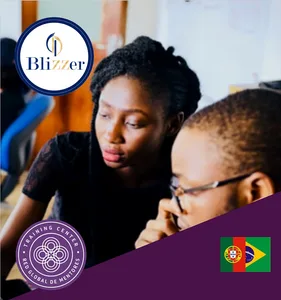
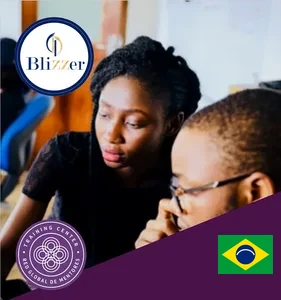
Centros: banderas únicas (Blizzer, Mentoring Academy) y orden por región
Claude-Session: https://claude.ai/code/session_0186Y1JEVinRSaoQptzzRaFy

Changed region(s): [[0.7687, 0.78, 0.9964, 0.93]]

diff --git a/es/academia/centros/index.html b/es/academia/centros/index.html
@@ -40,7 +40,7 @@
       <p>Es la entidad responsable de la construcción doctrinal, académica y estratégica de la disciplina. Hoy hay más de 15 Centros de Formación certificados en 13 países, en tres lenguas (español, portugués e inglés).</p></div></div></div></section>
 <section class="sec oscuro"><div class="cont"><span class="sobre">Academias lingüísticas de mentoría</span><h2>Una academia por cada lengua</h2><p class="lead">Entidades autorizadas por la Academia Global RGM para desarrollar, representar y expandir la mentoría en un idioma determinado. Su misión es impulsar la formación, certificación, investigación y profesionalización de la mentoría, adaptando los estándares internacionales a la realidad cultural y educativa de cada territorio. Actúan como nexo entre la Academia Global RGM, las universidades, los centros de formación y los mentores de su región.</p><div class="centros centros--3"><article class="centro"><img src="../img/centros/lin-ingles.webp" width="500" height="300" loading="lazy" alt="English Mentoring Academy"><div><h4>English Mentoring Academy</h4><p>Londres, Reino Unido · lengua inglesa</p></div></article><article class="centro"><img src="../img/centros/lin-hispana.webp" width="500" height="300" loading="lazy" alt="Academia Hispana de Mentoría"><div><h4>Academia Hispana de Mentoría</h4><p>Madrid, España · lengua española</p></div></article><article class="centro"><img src="../img/centros/lin-lusofona.webp" width="500" height="300" loading="lazy" alt="Academia Lusófona de Mentoria"><div><h4>Academia Lusófona de Mentoria</h4><p>Lisboa, Portugal · lengua portuguesa</p></div></article></div></div></section>
 <section class="sec claro"><div class="cont"><span class="sobre">Universidades aliadas</span><h2>Mentoría dentro de la oferta académica</h2><p class="lead">Instituciones de educación superior que incorporan la mentoría en su oferta, impartiendo programas oficiales desarrollados o avalados por la Academia Global RGM, mediante asignaturas, especializaciones, diplomaturas, maestrías y programas de formación académica, con rigor científico, calidad educativa y reconocimiento institucional.</p><div class="centros"><article class="centro"><img src="../img/centros/uni-1.webp" width="500" height="300" loading="lazy" alt="NUC University · Northbridge University"><div><h4>NUC University · Northbridge University</h4><p>San Juan, Puerto Rico</p><a class="mas" href="https://northbridge.edu/en/" target="_blank" rel="noopener">Sitio web →</a></div></article><article class="centro"><img src="../img/centros/uni-2.webp" width="500" height="300" loading="lazy" alt="NUC University · Northbridge University"><div><h4>NUC University · Northbridge University</h4><p>Estado de Florida, USA</p><a class="mas" href="https://northbridge.edu/" target="_blank" rel="noopener">Sitio web →</a></div></article><article class="centro"><img src="../img/centros/uni-3.webp" width="500" height="300" loading="lazy" alt="INCADE"><div><h4>INCADE</h4><p>Posadas, Argentina</p><a class="mas" href="https://incade.edu.ar/" target="_blank" rel="noopener">Sitio web →</a></div></article></div></div></section>
-<section class="sec oscuro"><div class="cont"><span class="sobre">Centros de formación avalados</span><h2>Mentoría combinada con otras disciplinas</h2><p class="lead">Instituciones educativas que integran la mentoría dentro de sus propios programas formativos, combinándola con otras disciplinas, metodologías o áreas de especialización. Su función es difundir, enseñar y aplicar la mentoría en distintos contextos, mediante programas mixtos avalados por la Academia Global RGM.</p><div class="centros"><article class="centro"><img src="../img/centros/c-saxa.webp" width="500" height="300" loading="lazy" alt="Mentoring Academy"><div><h4>Mentoring Academy</h4><p>Londres, Inglaterra</p><a class="mas" href="https://mentoring.academy/" target="_blank" rel="noopener">Sitio web →</a></div></article><article class="centro"><img src="../img/centros/c-grit.webp" width="500" height="300" loading="lazy" alt="GRIT Academy"><div><h4>GRIT Academy</h4><p>Chipre</p><a class="mas" href="https://gritacademy.co/red-global-de-mentores/" target="_blank" rel="noopener">Sitio web →</a></div></article><article class="centro"><img src="../img/centros/c-jaime.webp" width="500" height="300" loading="lazy" alt="Jaime España"><div><h4>Jaime España</h4><p>Bogotá, Colombia</p><a class="mas" href="https://www.jaimeespana.com/" target="_blank" rel="noopener">Sitio web →</a></div></article><article class="centro"><img src="../img/centros/c-bolivia.webp" width="500" height="300" loading="lazy" alt="Coaching Consulting Group"><div><h4>Coaching Consulting Group</h4><p>La Paz, Bolivia</p><a class="mas" href="https://coaching.bo/" target="_blank" rel="noopener">Sitio web →</a></div></article><article class="centro"><img src="../img/centros/c-peru.webp" width="500" height="300" loading="lazy" alt="Escuela de Coaching Integral Perú"><div><h4>Escuela de Coaching Integral Perú</h4><p>Lima, Perú</p><a class="mas" href="https://eciplatam.com/index.php" target="_blank" rel="noopener">Sitio web →</a></div></article><article class="centro"><img src="../img/centros/c-rosalinda.webp" width="500" height="300" loading="lazy" alt="Espacio Empresarial"><div><h4>Espacio Empresarial</h4><p>Ciudad de México, México</p><a class="mas" href="https://espacioempresarial.com.mx/red-global-de-mentores" target="_blank" rel="noopener">Sitio web →</a></div></article><article class="centro"><img src="../img/centros/c-rafa.webp" width="500" height="300" loading="lazy" alt="Escuela de Mentores"><div><h4>Escuela de Mentores</h4><p>Medellín, Colombia</p><a class="mas" href="https://escueladementores.org/" target="_blank" rel="noopener">Sitio web →</a></div></article><article class="centro"><img src="../img/centros/c-miami.webp" width="500" height="300" loading="lazy" alt="Crecimiento &amp; Liderazgo"><div><h4>Crecimiento &amp; Liderazgo</h4><p>Miami, EEUU</p><a class="mas" href="https://crecimientoyliderazgo.com/red-global-de-mentores/" target="_blank" rel="noopener">Sitio web →</a></div></article><article class="centro"><img src="../img/centros/c-kleber.webp" width="500" height="300" loading="lazy" alt="Blizzer"><div><h4>Blizzer</h4><p>Río de Janeiro, Brasil</p><a class="mas" href="https://www.blizzer.com.br/kleber-rodrigues" target="_blank" rel="noopener">Sitio web →</a></div></article><article class="centro"><img src="../img/centros/c-ilpnl.webp" width="500" height="300" loading="lazy" alt="ILPNL"><div><h4>ILPNL</h4><p>Lima, Perú</p><a class="mas" href="https://ilpnl.org/" target="_blank" rel="noopener">Sitio web →</a></div></article><article class="centro"><img src="../img/centros/c-itaca.webp" width="500" height="300" loading="lazy" alt="Academia Ítaca"><div><h4>Academia Ítaca</h4><p>Posadas, Argentina</p><a class="mas" href="https://www.beatrizmartinez.com.ar/" target="_blank" rel="noopener">Sitio web →</a></div></article><article class="centro"><img src="../img/centros/c-amareva.webp" width="500" height="300" loading="lazy" alt="Amar Eva"><div><h4>Amar Eva</h4><p>Mirandela, Portugal</p><a class="mas" href="https://www.linkedin.com/company/associa%C3%A7%C3%A3o-amar-eva/" target="_blank" rel="noopener">Sitio web →</a></div></article></div></div></section>
+<section class="sec oscuro"><div class="cont"><span class="sobre">Centros de formación avalados</span><h2>Mentoría combinada con otras disciplinas</h2><p class="lead">Instituciones educativas que integran la mentoría dentro de sus propios programas formativos, combinándola con otras disciplinas, metodologías o áreas de especialización. Su función es difundir, enseñar y aplicar la mentoría en distintos contextos, mediante programas mixtos avalados por la Academia Global RGM.</p><div class="centros"><article class="centro"><img src="../img/centros/c-saxa.webp" width="500" height="300" loading="lazy" alt="Mentoring Academy"><div><h4>Mentoring Academy</h4><p>Londres, Inglaterra</p><a class="mas" href="https://mentoring.academy/" target="_blank" rel="noopener">Sitio web →</a></div></article><article class="centro"><img src="../img/centros/c-grit.webp" width="500" height="300" loading="lazy" alt="GRIT Academy"><div><h4>GRIT Academy</h4><p>Chipre</p><a class="mas" href="https://gritacademy.co/red-global-de-mentores/" target="_blank" rel="noopener">Sitio web →</a></div></article><article class="centro"><img src="../img/centros/c-amareva.webp" width="500" height="300" loading="lazy" alt="Amar Eva"><div><h4>Amar Eva</h4><p>Mirandela, Portugal</p><a class="mas" href="https://www.linkedin.com/company/associa%C3%A7%C3%A3o-amar-eva/" target="_blank" rel="noopener">Sitio web →</a></div></article><article class="centro"><img src="../img/centros/c-miami.webp" width="500" height="300" loading="lazy" alt="Crecimiento &amp; Liderazgo"><div><h4>Crecimiento &amp; Liderazgo</h4><p>Miami, EEUU</p><a class="mas" href="https://crecimientoyliderazgo.com/red-global-de-mentores/" target="_blank" rel="noopener">Sitio web →</a></div></article><article class="centro"><img src="../img/centros/c-rosalinda.webp" width="500" height="300" loading="lazy" alt="Espacio Empresarial"><div><h4>Espacio Empresarial</h4><p>Ciudad de México, México</p><a class="mas" href="https://espacioempresarial.com.mx/red-global-de-mentores" target="_blank" rel="noopener">Sitio web →</a></div></article><article class="centro"><img src="../img/centros/c-jaime.webp" width="500" height="300" loading="lazy" alt="Jaime España"><div><h4>Jaime España</h4><p>Bogotá, Colombia</p><a class="mas" href="https://www.jaimeespana.com/" target="_blank" rel="noopener">Sitio web →</a></div></article><article class="centro"><img src="../img/centros/c-rafa.webp" width="500" height="300" loading="lazy" alt="Escuela de Mentores"><div><h4>Escuela de Mentores</h4><p>Medellín, Colombia</p><a class="mas" href="https://escueladementores.org/" target="_blank" rel="noopener">Sitio web →</a></div></article><article class="centro"><img src="../img/centros/c-bolivia.webp" width="500" height="300" loading="lazy" alt="Coaching Consulting Group"><div><h4>Coaching Consulting Group</h4><p>La Paz, Bolivia</p><a class="mas" href="https://coaching.bo/" target="_blank" rel="noopener">Sitio web →</a></div></article><article class="centro"><img src="../img/centros/c-peru.webp" width="500" height="300" loading="lazy" alt="Escuela de Coaching Integral Perú"><div><h4>Escuela de Coaching Integral Perú</h4><p>Lima, Perú</p><a class="mas" href="https://eciplatam.com/index.php" target="_blank" rel="noopener">Sitio web →</a></div></article><article class="centro"><img src="../img/centros/c-ilpnl.webp" width="500" height="300" loading="lazy" alt="ILPNL"><div><h4>ILPNL</h4><p>Lima, Perú</p><a class="mas" href="https://ilpnl.org/" target="_blank" rel="noopener">Sitio web →</a></div></article><article class="centro"><img src="../img/centros/c-kleber.webp" width="500" height="300" loading="lazy" alt="Blizzer"><div><h4>Blizzer</h4><p>Río de Janeiro, Brasil</p><a class="mas" href="https://www.blizzer.com.br/kleber-rodrigues" target="_blank" rel="noopener">Sitio web →</a></div></article><article class="centro"><img src="../img/centros/c-itaca.webp" width="500" height="300" loading="lazy" alt="Academia Ítaca"><div><h4>Academia Ítaca</h4><p>Posadas, Argentina</p><a class="mas" href="https://www.beatrizmartinez.com.ar/" target="_blank" rel="noopener">Sitio web →</a></div></article></div></div></section>
 <section class="sec claro"><div class="cont"><div class="dos"><div><span class="sobre">Mentores docentes certificados</span><h2>Agentes de transformación humana y organizacional</h2></div><div>
       <p>Los Mentores Docentes Certificados son los profesionales habilitados para ejercer la mentoría conforme a los estándares académicos, éticos y metodológicos de la Academia Global RGM. Constituyen la expresión práctica de todo el ecosistema, ya que son quienes transfieren experiencia, criterio y sabiduría aplicada a personas, equipos, organizaciones y comunidades.</p>
       <p><a class="btn btn--oro" href="../../directorio/" target="_blank" rel="noopener">Ver los Mentores Docentes Certificados</a></p></div></div></div></section>

diff --git a/pt/academia/centros/index.html b/pt/academia/centros/index.html
@@ -38,7 +38,7 @@
 <p>É a entidade responsável pela construção doutrinal, académica e estratégica da disciplina. Hoje existem mais de 15 Centros de Formação certificados em 13 países, em três línguas (espanhol, português e inglês).</p></div></div></div></section>
 <section class="sec oscuro"><div class="cont"><span class="sobre">Academias linguísticas de mentoria</span><h2>Uma academia por cada língua</h2><p class="lead">Entidades autorizadas pela Academia Global RGM para desenvolver, representar e expandir a mentoria num determinado idioma. A sua missão é impulsionar a formação, a certificação, a investigação e a profissionalização da mentoria, adaptando os padrões internacionais à realidade cultural e educativa de cada território. Atuam como elo entre a Academia Global RGM, as universidades, os centros de formação e os mentores da sua região.</p><div class="centros centros--3"><article class="centro"><img alt="English Mentoring Academy" height="300" loading="lazy" src="../img/centros/lin-ingles.webp" width="500"/><div><h4>English Mentoring Academy</h4><p>Londres, Reino Unido · língua inglesa</p></div></article><article class="centro"><img alt="Academia Hispânica de Mentoria" height="300" loading="lazy" src="../img/centros/lin-hispana.webp" width="500"/><div><h4>Academia Hispânica de Mentoria</h4><p>Madrid, Espanha · língua espanhola</p></div></article><article class="centro"><img alt="Academia Lusófona de Mentoria" height="300" loading="lazy" src="../img/centros/lin-lusofona.webp" width="500"/><div><h4>Academia Lusófona de Mentoria</h4><p>Lisboa, Portugal · língua portuguesa</p></div></article></div></div></section>
 <section class="sec claro"><div class="cont"><span class="sobre">Universidades parceiras</span><h2>A mentoria na oferta académica</h2><p class="lead">Instituições de ensino superior que incorporam a mentoria na sua oferta, ministrando programas oficiais desenvolvidos ou chancelados pela Academia Global RGM, através de unidades curriculares, especializações, pós-graduações, mestrados e programas de formação académica, com rigor científico, qualidade educativa e reconhecimento institucional.</p><div class="centros"><article class="centro"><img alt="NUC University · Northbridge University" height="300" loading="lazy" src="../img/centros/uni-1.webp" width="500"/><div><h4>NUC University · Northbridge University</h4><p>San Juan, Porto Rico</p><a class="mas" href="https://northbridge.edu/en/" rel="noopener" target="_blank">Site →</a></div></article><article class="centro"><img alt="NUC University · Northbridge University" height="300" loading="lazy" src="../img/centros/uni-2.webp" width="500"/><div><h4>NUC University · Northbridge University</h4><p>Estado da Florida, EUA</p><a class="mas" href="https://northbridge.edu/" rel="noopener" target="_blank">Site →</a></div></article><article class="centro"><img alt="INCADE" height="300" loading="lazy" src="../img/centros/uni-3.webp" width="500"/><div><h4>INCADE</h4><p>Posadas, Argentina</p><a class="mas" href="https://incade.edu.ar/" rel="noopener" target="_blank">Site →</a></div></article></div></div></section>
-<section class="sec oscuro"><div class="cont"><span class="sobre">Centros de formação chancelados</span><h2>Mentoria combinada com outras disciplinas</h2><p class="lead">Instituições de ensino que integram a mentoria nos seus próprios programas formativos, combinando-a com outras disciplinas, metodologias ou áreas de especialização. A sua função é divulgar, ensinar e aplicar a mentoria em diferentes contextos, através de programas mistos chancelados pela Academia Global RGM.</p><div class="centros"><article class="centro"><img alt="Mentoring Academy" height="300" loading="lazy" src="../img/centros/c-saxa.webp" width="500"/><div><h4>Mentoring Academy</h4><p>Londres, Inglaterra</p><a class="mas" href="https://mentoring.academy/" rel="noopener" target="_blank">Site →</a></div></article><article class="centro"><img alt="GRIT Academy" height="300" loading="lazy" src="../img/centros/c-grit.webp" width="500"/><div><h4>GRIT Academy</h4><p>Chipre</p><a class="mas" href="https://gritacademy.co/red-global-de-mentores/" rel="noopener" target="_blank">Site →</a></div></article><article class="centro"><img alt="Jaime España" height="300" loading="lazy" src="../img/centros/c-jaime.webp" width="500"/><div><h4>Jaime España</h4><p>Bogotá, Colômbia</p><a class="mas" href="https://www.jaimeespana.com/" rel="noopener" target="_blank">Site →</a></div></article><article class="centro"><img alt="Coaching Consulting Group" height="300" loading="lazy" src="../img/centros/c-bolivia.webp" width="500"/><div><h4>Coaching Consulting Group</h4><p>La Paz, Bolívia</p><a class="mas" href="https://coaching.bo/" rel="noopener" target="_blank">Site →</a></div></article><article class="centro"><img alt="Escuela de Coaching Integral Perú" height="300" loading="lazy" src="../img/centros/c-peru.webp" width="500"/><div><h4>Escuela de Coaching Integral Perú</h4><p>Lima, Peru</p><a class="mas" href="https://eciplatam.com/index.php" rel="noopener" target="_blank">Site →</a></div></article><article class="centro"><img alt="Espaço Empresarial" height="300" loading="lazy" src="../img/centros/c-rosalinda.webp" width="500"/><div><h4>Espaço Empresarial</h4><p>Cidade do México, México</p><a class="mas" href="https://espacioempresarial.com.mx/red-global-de-mentores" rel="noopener" target="_blank">Site →</a></div></article><article class="centro"><img alt="Escola de Mentores" height="300" loading="lazy" src="../img/centros/c-rafa.webp" width="500"/><div><h4>Escola de Mentores</h4><p>Medellín, Colômbia</p><a class="mas" href="https://escueladementores.org/" rel="noopener" target="_blank">Site →</a></div></article><article class="centro"><img alt="Crescimento &amp; Liderança" height="300" loading="lazy" src="../img/centros/c-miami.webp" width="500"/><div><h4>Crescimento &amp; Liderança</h4><p>Miami, EUA</p><a class="mas" href="https://crecimientoyliderazgo.com/red-global-de-mentores/" rel="noopener" target="_blank">Site →</a></div></article><article class="centro"><img alt="Blizzer" height="300" loading="lazy" src="../img/centros/c-kleber.webp" width="500"/><div><h4>Blizzer</h4><p>Río de Janeiro, Brasil</p><a class="mas" href="https://www.blizzer.com.br/kleber-rodrigues" rel="noopener" target="_blank">Site →</a></div></article><article class="centro"><img alt="ILPNL" height="300" loading="lazy" src="../img/centros/c-ilpnl.webp" width="500"/><div><h4>ILPNL</h4><p>Lima, Peru</p><a class="mas" href="https://ilpnl.org/" rel="noopener" target="_blank">Site →</a></div></article><article class="centro"><img alt="Academia Ítaca" height="300" loading="lazy" src="../img/centros/c-itaca.webp" width="500"/><div><h4>Academia Ítaca</h4><p>Posadas, Argentina</p><a class="mas" href="https://www.beatrizmartinez.com.ar/" rel="noopener" target="_blank">Site →</a></div></article><article class="centro"><img alt="Amar Eva" height="300" loading="lazy" src="../img/centros/c-amareva.webp" width="500"/><div><h4>Amar Eva</h4><p>Mirandela, Portugal</p><a class="mas" href="https://www.linkedin.com/company/associa%C3%A7%C3%A3o-amar-eva/" rel="noopener" target="_blank">Site →</a></div></article></div></div></section>
+<section class="sec oscuro"><div class="cont"><span class="sobre">Centros de formação chancelados</span><h2>Mentoria combinada com outras disciplinas</h2><p class="lead">Instituições de ensino que integram a mentoria nos seus próprios programas formativos, combinando-a com outras disciplinas, metodologias ou áreas de especialização. A sua função é divulgar, ensinar e aplicar a mentoria em diferentes contextos, através de programas mistos chancelados pela Academia Global RGM.</p><div class="centros"><article class="centro"><img alt="Mentoring Academy" height="300" loading="lazy" src="../img/centros/c-saxa.webp" width="500"/><div><h4>Mentoring Academy</h4><p>Londres, Inglaterra</p><a class="mas" href="https://mentoring.academy/" rel="noopener" target="_blank">Site →</a></div></article><article class="centro"><img alt="GRIT Academy" height="300" loading="lazy" src="../img/centros/c-grit.webp" width="500"/><div><h4>GRIT Academy</h4><p>Chipre</p><a class="mas" href="https://gritacademy.co/red-global-de-mentores/" rel="noopener" target="_blank">Site →</a></div></article><article class="centro"><img alt="Amar Eva" height="300" loading="lazy" src="../img/centros/c-amareva.webp" width="500"/><div><h4>Amar Eva</h4><p>Mirandela, Portugal</p><a class="mas" href="https://www.linkedin.com/company/associa%C3%A7%C3%A3o-amar-eva/" rel="noopener" target="_blank">Site →</a></div></article><article class="centro"><img alt="Crescimento &amp; Liderança" height="300" loading="lazy" src="../img/centros/c-miami.webp" width="500"/><div><h4>Crescimento &amp; Liderança</h4><p>Miami, EUA</p><a class="mas" href="https://crecimientoyliderazgo.com/red-global-de-mentores/" rel="noopener" target="_blank">Site →</a></div></article><article class="centro"><img alt="Espaço Empresarial" height="300" loading="lazy" src="../img/centros/c-rosalinda.webp" width="500"/><div><h4>Espaço Empresarial</h4><p>Cidade do México, México</p><a class="mas" href="https://espacioempresarial.com.mx/red-global-de-mentores" rel="noopener" target="_blank">Site →</a></div></article><article class="centro"><img alt="Jaime España" height="300" loading="lazy" src="../img/centros/c-jaime.webp" width="500"/><div><h4>Jaime España</h4><p>Bogotá, Colômbia</p><a class="mas" href="https://www.jaimeespana.com/" rel="noopener" target="_blank">Site →</a></div></article><article class="centro"><img alt="Escola de Mentores" height="300" loading="lazy" src="../img/centros/c-rafa.webp" width="500"/><div><h4>Escola de Mentores</h4><p>Medellín, Colômbia</p><a class="mas" href="https://escueladementores.org/" rel="noopener" target="_blank">Site →</a></div></article><article class="centro"><img alt="Coaching Consulting Group" height="300" loading="lazy" src="../img/centros/c-bolivia.webp" width="500"/><div><h4>Coaching Consulting Group</h4><p>La Paz, Bolívia</p><a class="mas" href="https://coaching.bo/" rel="noopener" target="_blank">Site →</a></div></article><article class="centro"><img alt="Escuela de Coaching Integral Perú" height="300" loading="lazy" src="../img/centros/c-peru.webp" width="500"/><div><h4>Escuela de Coaching Integral Perú</h4><p>Lima, Peru</p><a class="mas" href="https://eciplatam.com/index.php" rel="noopener" target="_blank">Site →</a></div></article><article class="centro"><img alt="ILPNL" height="300" loading="lazy" src="../img/centros/c-ilpnl.webp" width="500"/><div><h4>ILPNL</h4><p>Lima, Peru</p><a class="mas" href="https://ilpnl.org/" rel="noopener" target="_blank">Site →</a></div></article><article class="centro"><img alt="Blizzer" height="300" loading="lazy" src="../img/centros/c-kleber.webp" width="500"/><div><h4>Blizzer</h4><p>Río de Janeiro, Brasil</p><a class="mas" href="https://www.blizzer.com.br/kleber-rodrigues" rel="noopener" target="_blank">Site →</a></div></article><article class="centro"><img alt="Academia Ítaca" height="300" loading="lazy" src="../img/centros/c-itaca.webp" width="500"/><div><h4>Academia Ítaca</h4><p>Posadas, Argentina</p><a class="mas" href="https://www.beatrizmartinez.com.ar/" rel="noopener" target="_blank">Site →</a></div></article></div></div></section>
 <section class="sec claro"><div class="cont"><div class="dos"><div><span class="sobre">Mentores docentes certificados</span><h2>Agentes de transformação humana e organizacional</h2></div><div>
 <p>Os Mentores Docentes Certificados são os profissionais habilitados para exercer a mentoria de acordo com os padrões académicos, éticos e metodológicos da Academia Global RGM. Constituem a expressão prática de todo o ecossistema, pois são quem transfere experiência, critério e sabedoria aplicada a pessoas, equipas, organizações e comunidades.</p>
 <p><a class="btn btn--oro" href="../../diretorio/" rel="noopener" target="_blank">Ver os Mentores Docentes Certificados</a></p></div></div></div></section>

diff --git a/en/academia/centros/index.html b/en/academia/centros/index.html
@@ -38,7 +38,7 @@
 <p>It is the body responsible for the doctrinal, academic and strategic development of the discipline. There are now more than 15 certified Training Centres in 13 countries, in three languages (Spanish, Portuguese and English).</p></div></div></div></section>
 <section class="sec oscuro"><div class="cont"><span class="sobre">Language academies of mentoring</span><h2>One academy for each language</h2><p class="lead">Bodies authorised by Academia Global RGM to develop, represent and expand mentoring in a given language. Their mission is to drive the training, certification, research and professionalisation of mentoring, adapting international standards to the cultural and educational reality of each territory. They act as a link between Academia Global RGM, universities, training centres and the mentors of their region.</p><div class="centros centros--3"><article class="centro"><img alt="English Mentoring Academy" height="300" loading="lazy" src="../img/centros/lin-ingles.webp" width="500"/><div><h4>English Mentoring Academy</h4><p>London, United Kingdom · English language</p></div></article><article class="centro"><img alt="Hispanic Mentoring Academy" height="300" loading="lazy" src="../img/centros/lin-hispana.webp" width="500"/><div><h4>Hispanic Mentoring Academy</h4><p>Madrid, Spain · Spanish language</p></div></article><article class="centro"><img alt="Lusophone Mentoring Academy" height="300" loading="lazy" src="../img/centros/lin-lusofona.webp" width="500"/><div><h4>Lusophone Mentoring Academy</h4><p>Lisbon, Portugal · Portuguese language</p></div></article></div></div></section>
 <section class="sec claro"><div class="cont"><span class="sobre">Partner universities</span><h2>Mentoring within the academic offer</h2><p class="lead">Higher-education institutions that include mentoring in their offer, delivering official programmes developed or endorsed by Academia Global RGM through courses, specialisations, diplomas, master's degrees and academic training programmes, with scientific rigour, educational quality and institutional recognition.</p><div class="centros"><article class="centro"><img alt="NUC University · Northbridge University" height="300" loading="lazy" src="../img/centros/uni-1.webp" width="500"/><div><h4>NUC University · Northbridge University</h4><p>San Juan, Puerto Rico</p><a class="mas" href="https://northbridge.edu/en/" rel="noopener" target="_blank">Website →</a></div></article><article class="centro"><img alt="NUC University · Northbridge University" height="300" loading="lazy" src="../img/centros/uni-2.webp" width="500"/><div><h4>NUC University · Northbridge University</h4><p>State of Florida, USA</p><a class="mas" href="https://northbridge.edu/" rel="noopener" target="_blank">Website →</a></div></article><article class="centro"><img alt="INCADE" height="300" loading="lazy" src="../img/centros/uni-3.webp" width="500"/><div><h4>INCADE</h4><p>Posadas, Argentina</p><a class="mas" href="https://incade.edu.ar/" rel="noopener" target="_blank">Website →</a></div></article></div></div></section>
-<section class="sec oscuro"><div class="cont"><span class="sobre">Endorsed training centres</span><h2>Mentoring combined with other disciplines</h2><p class="lead">Educational institutions that integrate mentoring into their own training programmes, combining it with other disciplines, methodologies or areas of specialisation. Their role is to spread, teach and apply mentoring in different contexts through blended programmes endorsed by Academia Global RGM.</p><div class="centros"><article class="centro"><img alt="Mentoring Academy" height="300" loading="lazy" src="../img/centros/c-saxa.webp" width="500"/><div><h4>Mentoring Academy</h4><p>London, England</p><a class="mas" href="https://mentoring.academy/" rel="noopener" target="_blank">Website →</a></div></article><article class="centro"><img alt="GRIT Academy" height="300" loading="lazy" src="../img/centros/c-grit.webp" width="500"/><div><h4>GRIT Academy</h4><p>Cyprus</p><a class="mas" href="https://gritacademy.co/red-global-de-mentores/" rel="noopener" target="_blank">Website →</a></div></article><article class="centro"><img alt="Jaime España" height="300" loading="lazy" src="../img/centros/c-jaime.webp" width="500"/><div><h4>Jaime España</h4><p>Bogotá, Colombia</p><a class="mas" href="https://www.jaimeespana.com/" rel="noopener" target="_blank">Website →</a></div></article><article class="centro"><img alt="Coaching Consulting Group" height="300" loading="lazy" src="../img/centros/c-bolivia.webp" width="500"/><div><h4>Coaching Consulting Group</h4><p>La Paz, Bolivia</p><a class="mas" href="https://coaching.bo/" rel="noopener" target="_blank">Website →</a></div></article><article class="centro"><img alt="Escuela de Coaching Integral Perú" height="300" loading="lazy" src="../img/centros/c-peru.webp" width="500"/><div><h4>Escuela de Coaching Integral Perú</h4><p>Lima, Peru</p><a class="mas" href="https://eciplatam.com/index.php" rel="noopener" target="_blank">Website →</a></div></article><article class="centro"><img alt="Business Space" height="300" loading="lazy" src="../img/centros/c-rosalinda.webp" width="500"/><div><h4>Business Space</h4><p>Mexico City, Mexico</p><a class="mas" href="https://espacioempresarial.com.mx/red-global-de-mentores" rel="noopener" target="_blank">Website →</a></div></article><article class="centro"><img alt="School of Mentors" height="300" loading="lazy" src="../img/centros/c-rafa.webp" width="500"/><div><h4>School of Mentors</h4><p>Medellín, Colombia</p><a class="mas" href="https://escueladementores.org/" rel="noopener" target="_blank">Website →</a></div></article><article class="centro"><img alt="Growth &amp; Leadership" height="300" loading="lazy" src="../img/centros/c-miami.webp" width="500"/><div><h4>Growth &amp; Leadership</h4><p>Miami, USA</p><a class="mas" href="https://crecimientoyliderazgo.com/red-global-de-mentores/" rel="noopener" target="_blank">Website →</a></div></article><article class="centro"><img alt="Blizzer" height="300" loading="lazy" src="../img/centros/c-kleber.webp" width="500"/><div><h4>Blizzer</h4><p>Río de Janeiro, Brazil</p><a class="mas" href="https://www.blizzer.com.br/kleber-rodrigues" rel="noopener" target="_blank">Website →</a></div></article><article class="centro"><img alt="ILPNL" height="300" loading="lazy" src="../img/centros/c-ilpnl.webp" width="500"/><div><h4>ILPNL</h4><p>Lima, Peru</p><a class="mas" href="https://ilpnl.org/" rel="noopener" target="_blank">Website →</a></div></article><article class="centro"><img alt="Academia Ítaca" height="300" loading="lazy" src="../img/centros/c-itaca.webp" width="500"/><div><h4>Academia Ítaca</h4><p>Posadas, Argentina</p><a class="mas" href="https://www.beatrizmartinez.com.ar/" rel="noopener" target="_blank">Website →</a></div></article><article class="centro"><img alt="Amar Eva" height="300" loading="lazy" src="../img/centros/c-amareva.webp" width="500"/><div><h4>Amar Eva</h4><p>Mirandela, Portugal</p><a class="mas" href="https://www.linkedin.com/company/associa%C3%A7%C3%A3o-amar-eva/" rel="noopener" target="_blank">Website →</a></div></article></div></div></section>
+<section class="sec oscuro"><div class="cont"><span class="sobre">Endorsed training centres</span><h2>Mentoring combined with other disciplines</h2><p class="lead">Educational institutions that integrate mentoring into their own training programmes, combining it with other disciplines, methodologies or areas of specialisation. Their role is to spread, teach and apply mentoring in different contexts through blended programmes endorsed by Academia Global RGM.</p><div class="centros"><article class="centro"><img alt="Mentoring Academy" height="300" loading="lazy" src="../img/centros/c-saxa.webp" width="500"/><div><h4>Mentoring Academy</h4><p>London, England</p><a class="mas" href="https://mentoring.academy/" rel="noopener" target="_blank">Website →</a></div></article><article class="centro"><img alt="GRIT Academy" height="300" loading="lazy" src="../img/centros/c-grit.webp" width="500"/><div><h4>GRIT Academy</h4><p>Cyprus</p><a class="mas" href="https://gritacademy.co/red-global-de-mentores/" rel="noopener" target="_blank">Website →</a></div></article><article class="centro"><img alt="Amar Eva" height="300" loading="lazy" src="../img/centros/c-amareva.webp" width="500"/><div><h4>Amar Eva</h4><p>Mirandela, Portugal</p><a class="mas" href="https://www.linkedin.com/company/associa%C3%A7%C3%A3o-amar-eva/" rel="noopener" target="_blank">Website →</a></div></article><article class="centro"><img alt="Growth &amp; Leadership" height="300" loading="lazy" src="../img/centros/c-miami.webp" width="500"/><div><h4>Growth &amp; Leadership</h4><p>Miami, USA</p><a class="mas" href="https://crecimientoyliderazgo.com/red-global-de-mentores/" rel="noopener" target="_blank">Website →</a></div></article><article class="centro"><img alt="Business Space" height="300" loading="lazy" src="../img/centros/c-rosalinda.webp" width="500"/><div><h4>Business Space</h4><p>Mexico City, Mexico</p><a class="mas" href="https://espacioempresarial.com.mx/red-global-de-mentores" rel="noopener" target="_blank">Website →</a></div></article><article class="centro"><img alt="Jaime España" height="300" loading="lazy" src="../img/centros/c-jaime.webp" width="500"/><div><h4>Jaime España</h4><p>Bogotá, Colombia</p><a class="mas" href="https://www.jaimeespana.com/" rel="noopener" target="_blank">Website →</a></div></article><article class="centro"><img alt="School of Mentors" height="300" loading="lazy" src="../img/centros/c-rafa.webp" width="500"/><div><h4>School of Mentors</h4><p>Medellín, Colombia</p><a class="mas" href="https://escueladementores.org/" rel="noopener" target="_blank">Website →</a></div></article><article class="centro"><img alt="Coaching Consulting Group" height="300" loading="lazy" src="../img/centros/c-bolivia.webp" width="500"/><div><h4>Coaching Consulting Group</h4><p>La Paz, Bolivia</p><a class="mas" href="https://coaching.bo/" rel="noopener" target="_blank">Website →</a></div></article><article class="centro"><img alt="Escuela de Coaching Integral Perú" height="300" loading="lazy" src="../img/centros/c-peru.webp" width="500"/><div><h4>Escuela de Coaching Integral Perú</h4><p>Lima, Peru</p><a class="mas" href="https://eciplatam.com/index.php" rel="noopener" target="_blank">Website →</a></div></article><article class="centro"><img alt="ILPNL" height="300" loading="lazy" src="../img/centros/c-ilpnl.webp" width="500"/><div><h4>ILPNL</h4><p>Lima, Peru</p><a class="mas" href="https://ilpnl.org/" rel="noopener" target="_blank">Website →</a></div></article><article class="centro"><img alt="Blizzer" height="300" loading="lazy" src="../img/centros/c-kleber.webp" width="500"/><div><h4>Blizzer</h4><p>Río de Janeiro, Brazil</p><a class="mas" href="https://www.blizzer.com.br/kleber-rodrigues" rel="noopener" target="_blank">Website →</a></div></article><article class="centro"><img alt="Academia Ítaca" height="300" loading="lazy" src="../img/centros/c-itaca.webp" width="500"/><div><h4>Academia Ítaca</h4><p>Posadas, Argentina</p><a class="mas" href="https://www.beatrizmartinez.com.ar/" rel="noopener" target="_blank">Website →</a></div></article></div></div></section>
 <section class="sec claro"><div class="cont"><div class="dos"><div><span class="sobre">Certified teaching mentors</span><h2>Agents of human and organisational transformation</h2></div><div>
 <p>Certified Teaching Mentors are the professionals qualified to practise mentoring in line with the academic, ethical and methodological standards of Academia Global RGM. They are the practical expression of the whole ecosystem, since they are the ones who pass on experience, judgement and applied wisdom to people, teams, organisations and communities.</p>
 <p><a class="btn btn--oro" href="../../directory/" rel="noopener" target="_blank">See the Certified Teaching Mentors</a></p></div></div></div></section>
